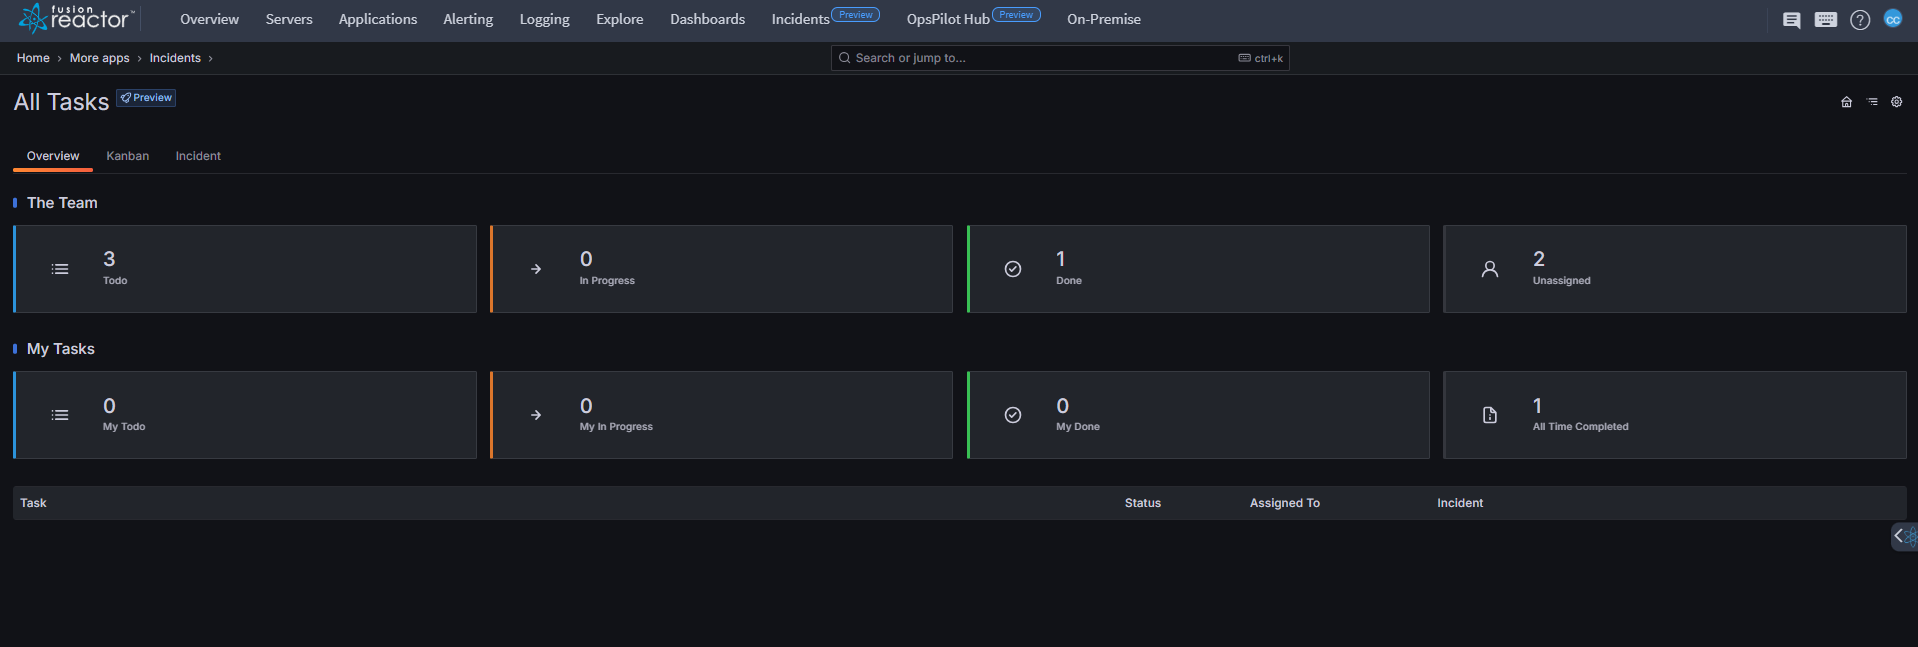
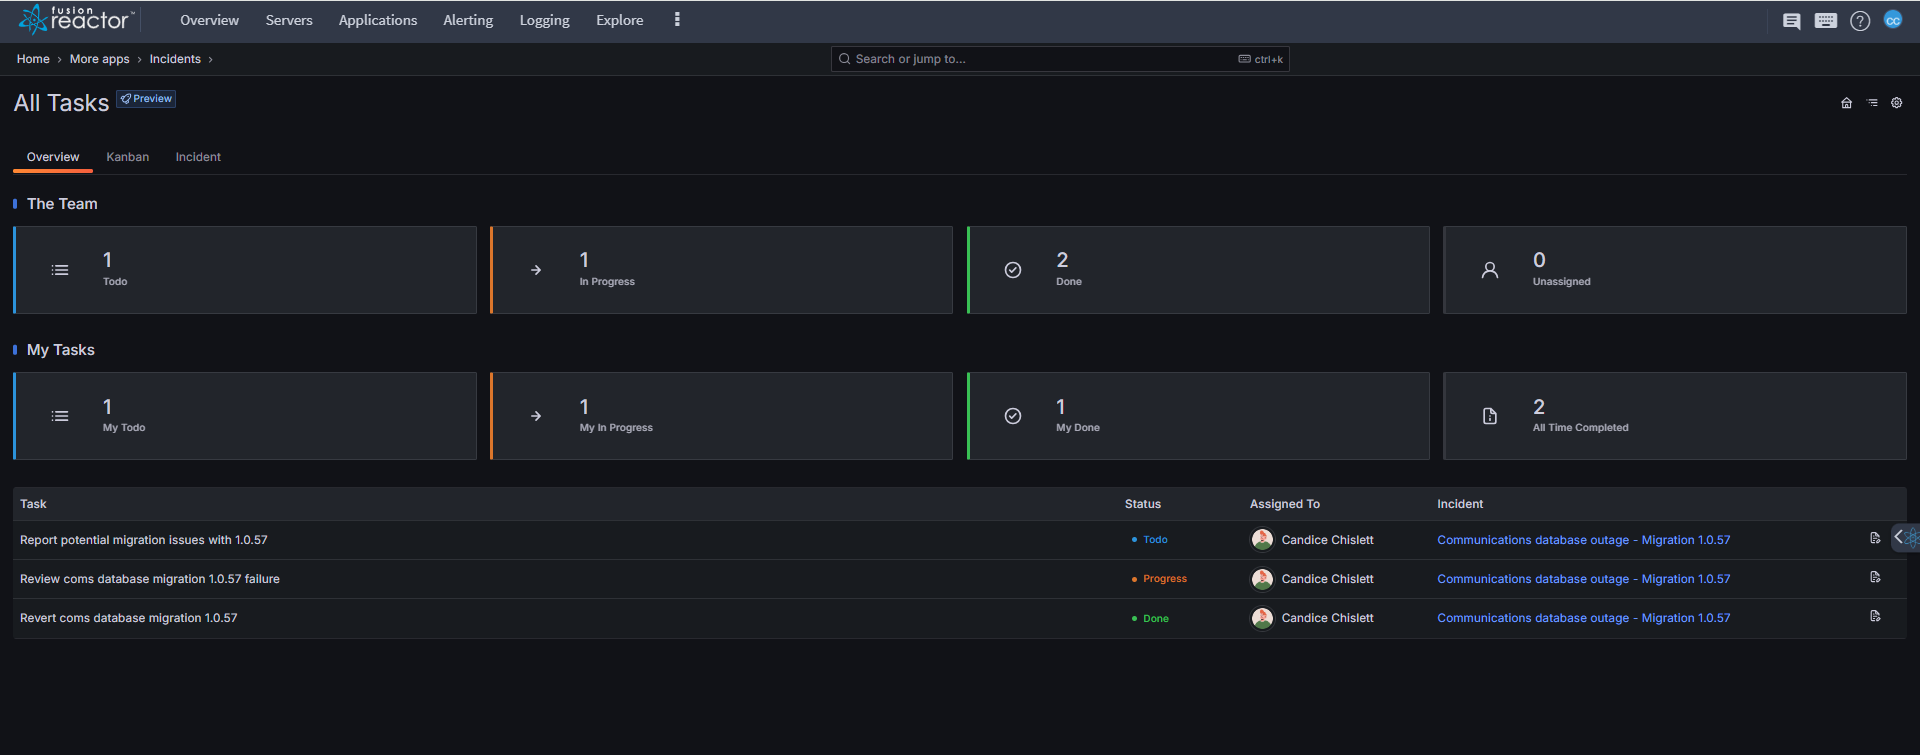
updated images & added real-time notifications

diff --git a/docs/Data-insights/Features/Incidents/incidents.md b/docs/Data-insights/Features/Incidents/incidents.md
@@ -141,7 +141,8 @@ To assign a task:
 !!! tip
     Tasks can be unassigned or reassigned at any time. Simply click the assigned user, then choose Unassign User or search for another team member to reassign the task.
 
-
+### Real-time updates & notifications
+FusionReactor’s Incidents feature provides real-time collaboration capabilities, ensuring that teams stay informed and aligned while responding to incidents. These live updates reduce miscommunication and improve response efficiency.
 
 
 ### Label management
